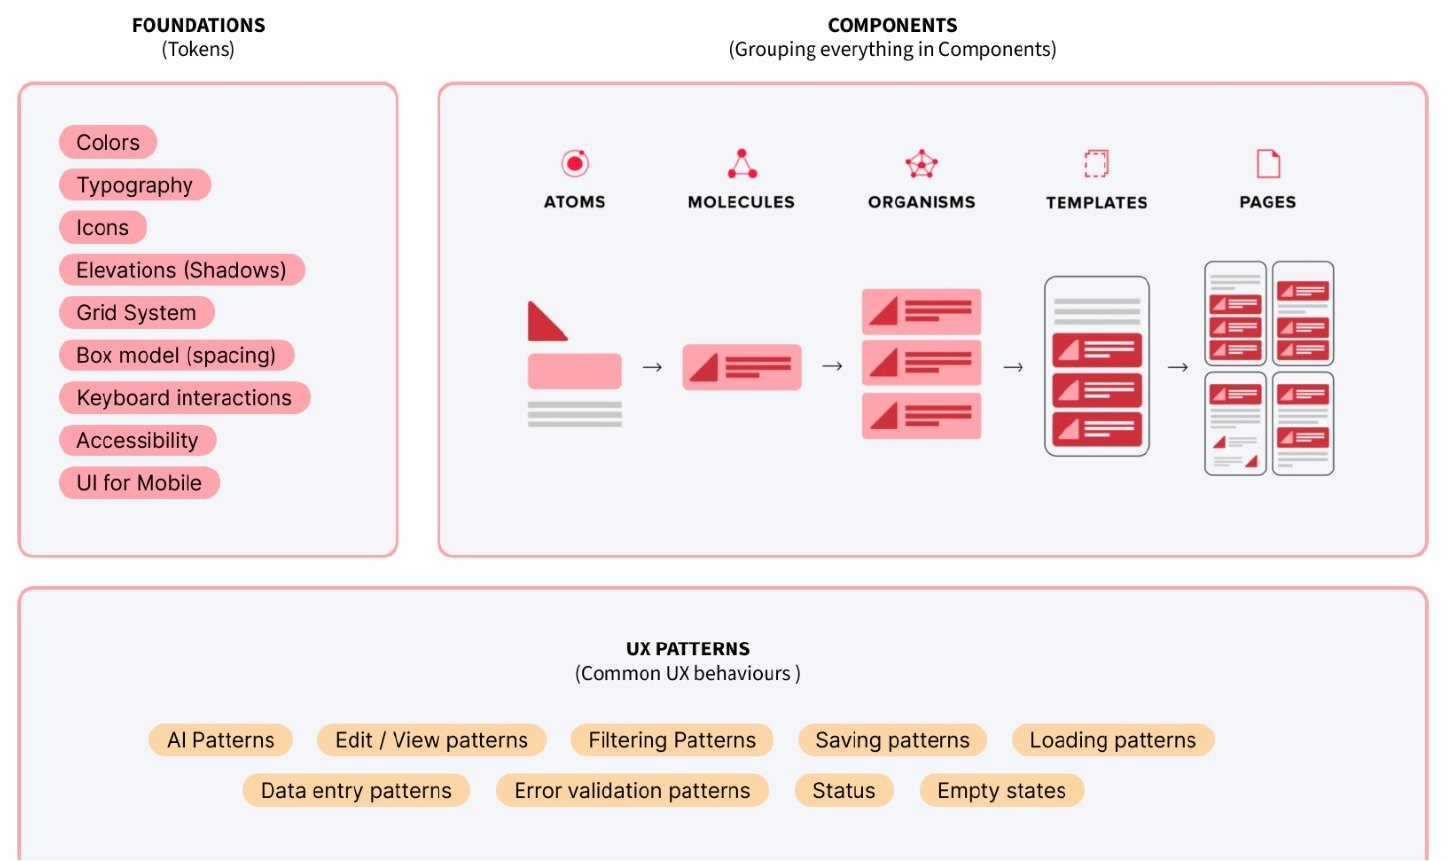
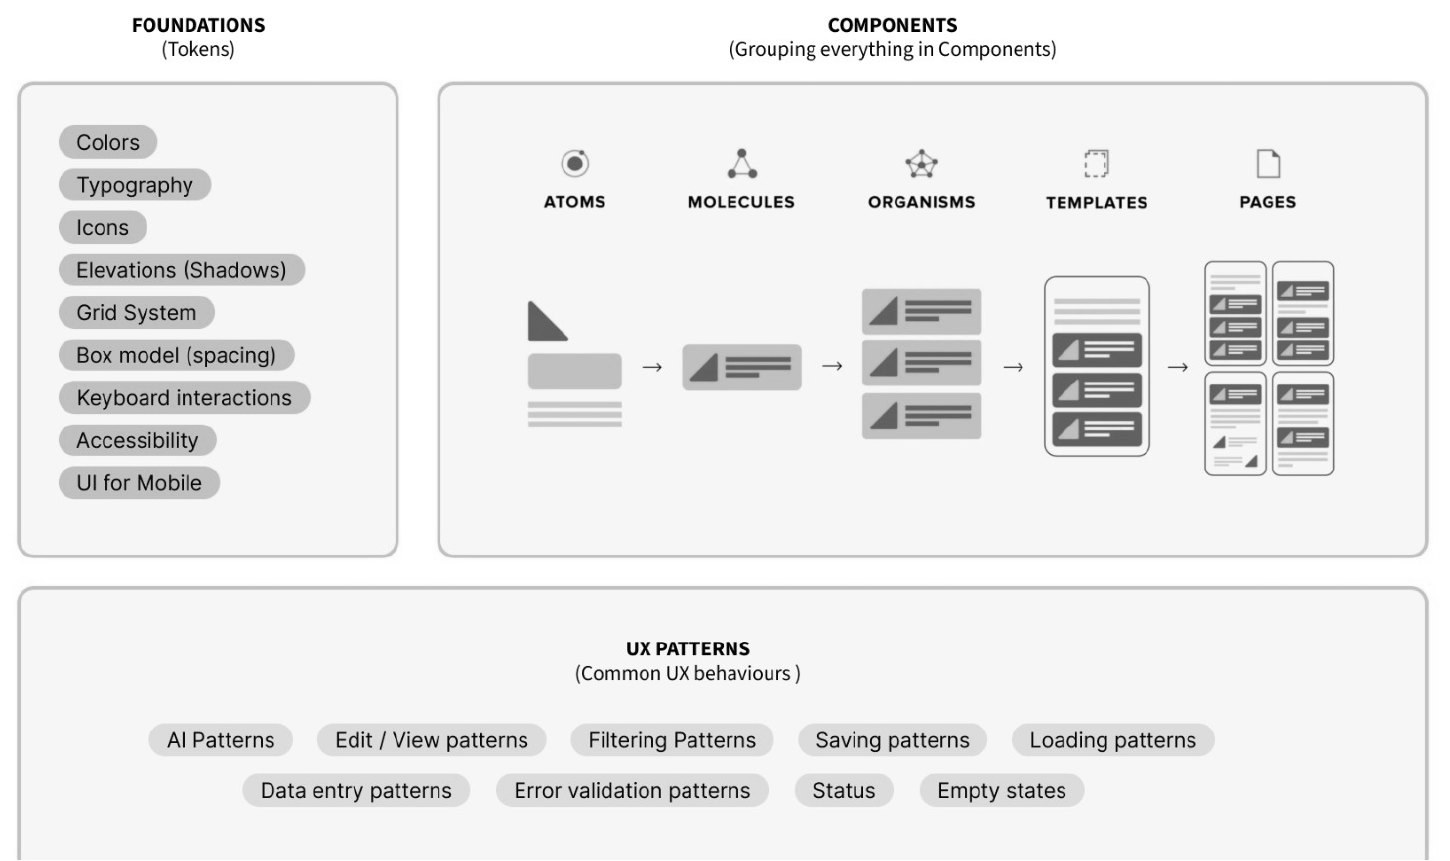
Softer yellow headline line; drop timeline caption; Garden diagram in greyscale
Claude-Session: https://claude.ai/code/session_01C6ee1zXA77t8X8bqW6Rm8z

diff --git a/index.html b/index.html
@@ -557,7 +557,7 @@ blockquote{ font-size:24px; line-height:1.3; }
 @keyframes drift{ from{ transform:translateY(0) } to{ transform:translateY(-50%) } }
 @media (prefers-reduced-motion: reduce){ .wcol{ animation:none; } }
 .hero-x .hx-title{ font-weight:400; letter-spacing:-0.02em; font-size:clamp(52px, 9.4vw, 118px); line-height:.98; color:#fff; }
-.hero-x .hx-title em{ font-style:normal; color:var(--hi); font-weight:600; }
+.hero-x .hx-title em{ font-style:normal; color:rgba(255,216,92,.78); font-weight:600; }
 .hero-x .hx-sub{ color:rgba(255,255,255,.82); }
 .hero-x .eyebrow, .hero-x .hx-proof{ color:rgba(255,255,255,.6); }
 .hero-x .hx-proof span{ color:rgba(255,255,255,.35); }
@@ -824,7 +824,7 @@ footer :is(.f-copy,.f-loc){ color:rgba(255,255,255,.5); }
 <text x="60.0" y="470" style="fill:var(--faint)" font-size="10.5" font-weight="600" letter-spacing="1">2003</text>
 <text x="930.0" y="470" style="fill:var(--faint)" font-size="10.5" font-weight="600" letter-spacing="1" text-anchor="end">2026</text>
       </svg>
-      <figcaption class="cap">Each role added a layer. Nothing was dropped along the way.</figcaption>
+      
     </figure>
     <ol class="timeline">
       <li><span class="y">2003</span><span class="r">Web and UI design for banking, media and education clients</span></li>
